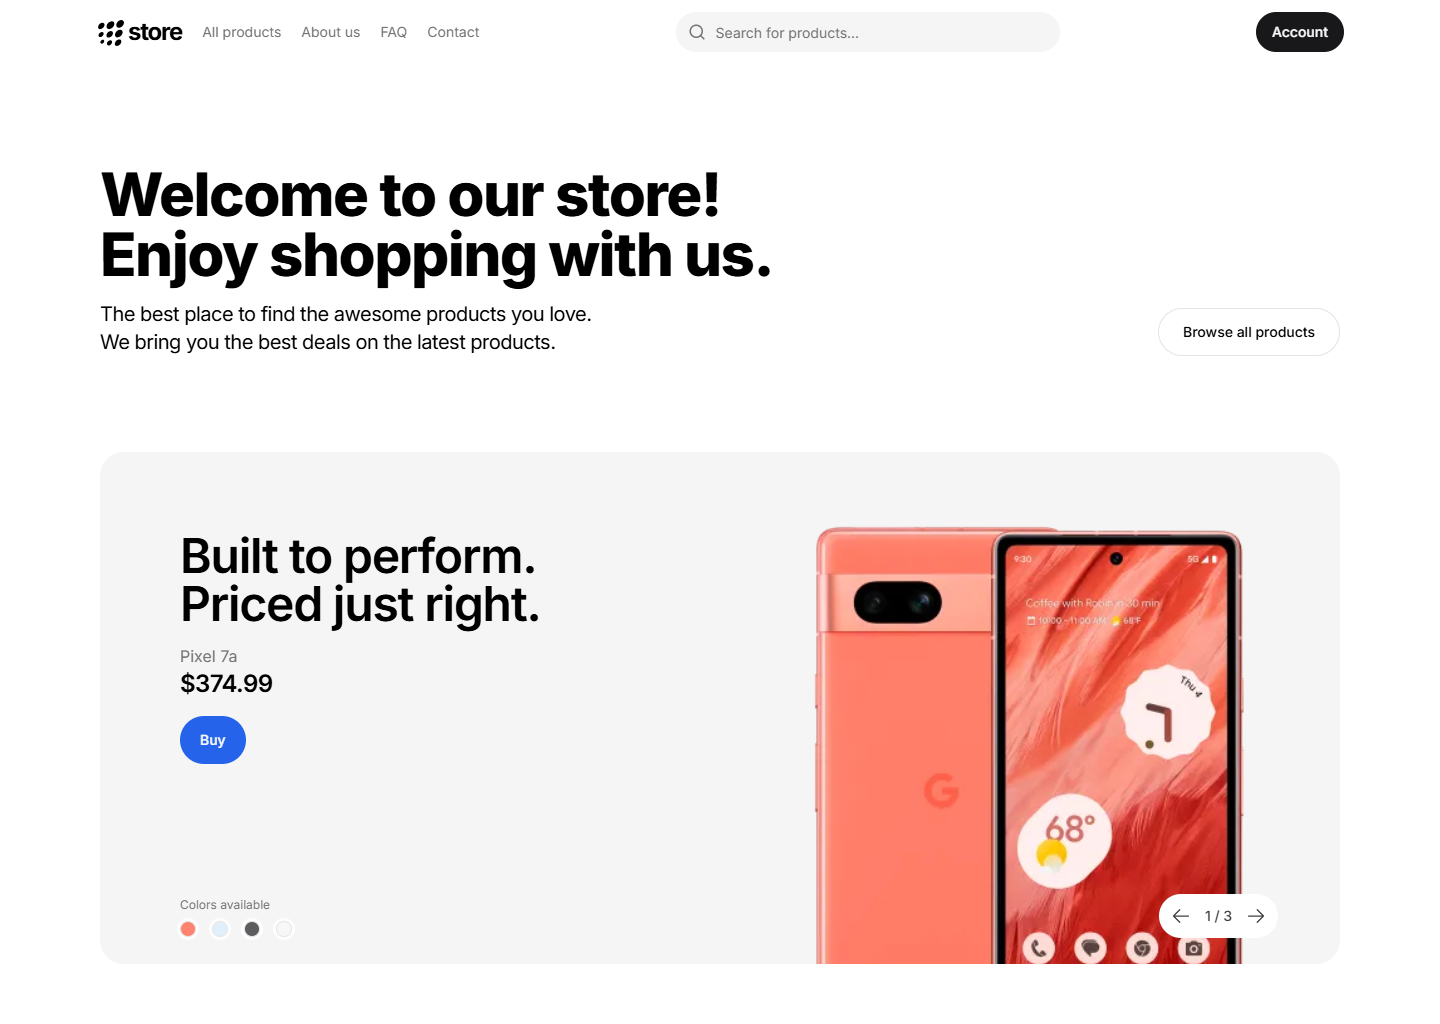
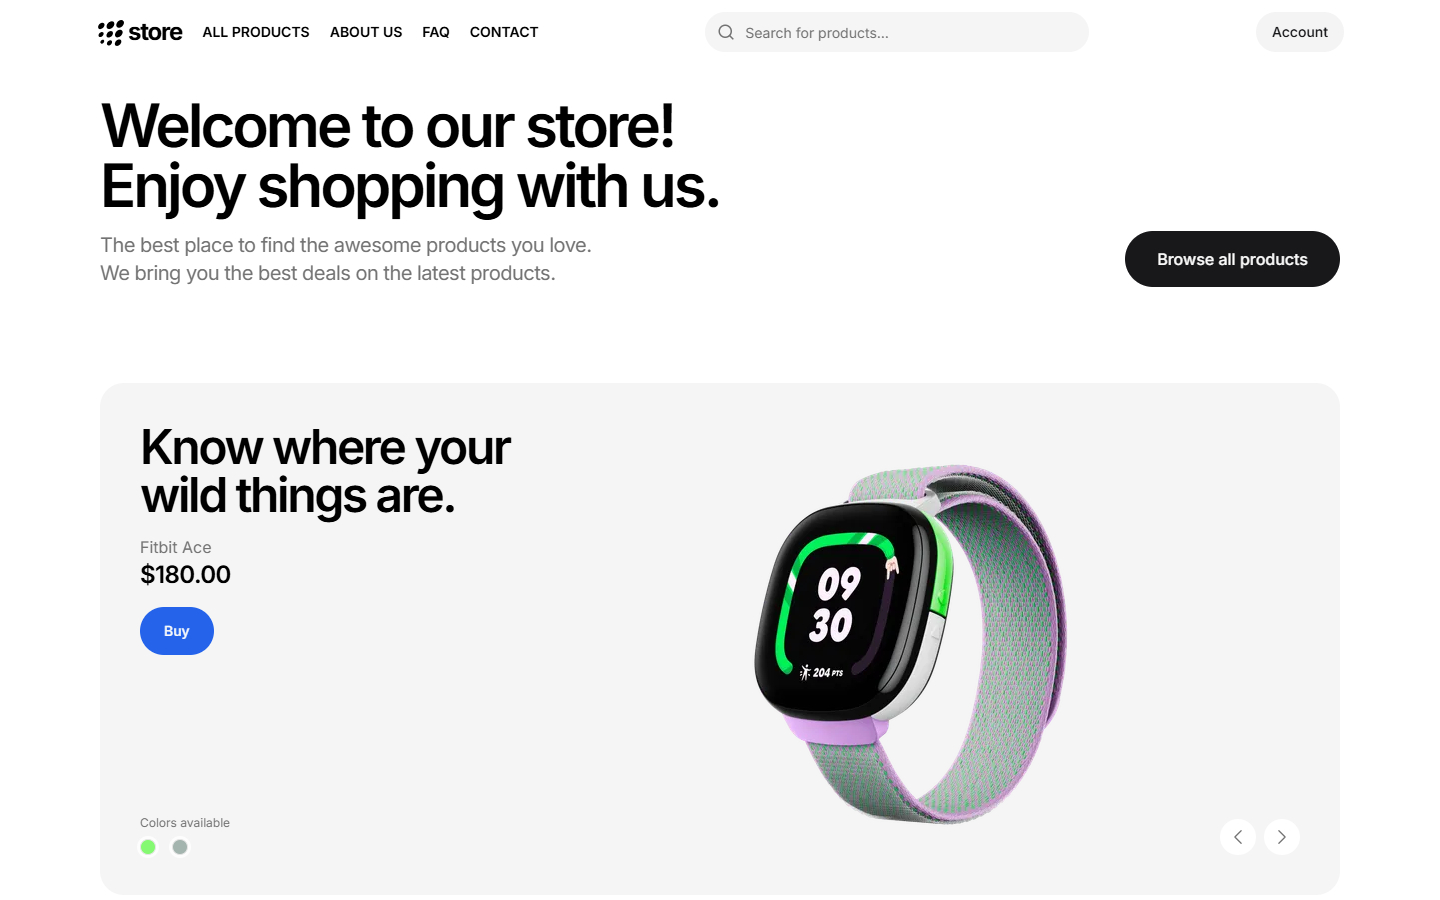
style: adds a few design changes

diff --git a/components/footer.tsx b/components/footer.tsx
@@ -1,6 +1,43 @@
-import StripeIcon from './icons/stripe';
 import LogoIcon from './icons/logo';
 import Link from 'next/link';
+
+const storeLinks = [
+  {
+    title: 'About',
+    href: '/about',
+  },
+  {
+    title: 'Contact',
+    href: '/contact',
+  },
+  {
+    title: 'FAQ',
+    href: '/faq',
+  },
+];
+
+const productLinks = [
+  {
+    title: 'Phones',
+    href: '/products/phones',
+  },
+  {
+    title: 'Watches',
+    href: '/products/watches',
+  },
+  {
+    title: 'T-shirts',
+    href: '/products/t-shirts',
+  },
+  {
+    title: 'Hats',
+    href: '/products/hats',
+  },
+  {
+    title: 'Hoodies',
+    href: '/products/hoodies',
+  },
+];
 
 export default function Footer() {
   return (
@@ -24,24 +61,15 @@ export default function Footer() {
           <div className="flex justify-center">
             <div className="flex flex-col items-start gap-2">
               <p className="font-medium">Store</p>
-              <Link
-                href="/about"
-                className="text-sm hover:text-black dark:hover:text-white text-neutral-500 dark:text-neutral-400 transition-all duration-200 ease-in"
-              >
-                About
-              </Link>
-              <Link
-                href="/contact"
-                className="text-sm hover:text-black dark:hover:text-white text-neutral-500 dark:text-neutral-400 transition-all duration-200 ease-in"
-              >
-                Contact
-              </Link>
-              <Link
-                href="/faq"
-                className="text-sm hover:text-black dark:hover:text-white text-neutral-500 dark:text-neutral-400 transition-all duration-200 ease-in"
-              >
-                FAQ
-              </Link>
+              {storeLinks.map((link) => (
+                <Link
+                  key={link.title}
+                  href={link.href}
+                  className="text-sm hover:text-black dark:hover:text-white text-neutral-500 dark:text-neutral-400 transition-all duration-200 ease-in"
+                >
+                  {link.title}
+                </Link>
+              ))}
             </div>
           </div>
         </div>
@@ -49,36 +77,15 @@ export default function Footer() {
           <div className="flex justify-center">
             <div className="flex flex-col items-start gap-2">
               <p className="font-medium">Products</p>
-              <Link
-                href="/products/phones"
-                className="text-sm hover:text-black dark:hover:text-white text-neutral-500 dark:text-neutral-400 transition-all duration-200 ease-in"
-              >
-                Phones
-              </Link>
-              <Link
-                href="/products/watches"
-                className="text-sm hover:text-black dark:hover:text-white text-neutral-500 dark:text-neutral-400 transition-all duration-200 ease-in"
-              >
-                Watches
-              </Link>
-              <Link
-                href="/products/t-shirts"
-                className="text-sm hover:text-black dark:hover:text-white text-neutral-500 dark:text-neutral-400 transition-all duration-200 ease-in"
-              >
-                T-shirts
-              </Link>
-              <Link
-                href="/products/hats"
-                className="text-sm hover:text-black dark:hover:text-white text-neutral-500 dark:text-neutral-400 transition-all duration-200 ease-in"
-              >
-                Hats
-              </Link>
-              <Link
-                href="/products/hoodies"
-                className="text-sm hover:text-black dark:hover:text-white text-neutral-500 dark:text-neutral-400 transition-all duration-200 ease-in"
-              >
-                Hoodies
-              </Link>
+              {productLinks.map((link) => (
+                <Link
+                  key={link.title}
+                  href={link.href}
+                  className="text-sm hover:text-black dark:hover:text-white text-neutral-500 dark:text-neutral-400 transition-all duration-200 ease-in"
+                >
+                  {link.title}
+                </Link>
+              ))}
             </div>
           </div>
         </div>

diff --git a/app/credits/page.tsx b/app/credits/page.tsx
@@ -1,0 +1,64 @@
+import BannerNewsletter from '@/components/banner-newsletter';
+import Footer from '@/components/footer';
+import { Metadata } from 'next';
+
+export const metadata: Metadata = {
+  title: 'Credits',
+  description: 'The people who made this possible.',
+};
+
+const creditsData = [
+  {
+    title: 'White shirt mockup',
+    href: 'https://www.freepik.com/free-psd/isolated-black-t-shirt-front_16188005.htm#query=t%20shirt%20mockup&position=3&from_view=keyword&track=ais',
+  },
+  {
+    title: 'Black shirt mockup',
+    href: 'https://www.freepik.com/free-psd/isolated-white-t-shirt-front-view_16188195.htm#query=t%20shirt%20mockup&position=7&from_view=keyword&track=ais',
+  },
+  {
+    title: 'White hoodie mockup',
+    href: 'https://www.freepik.com/free-psd/isolated-back-white-hoodie_18218933.htm#page=2&query=hoodie%20mockup&position=1&from_view=search&track=country_rows_v2',
+  },
+  {
+    title: 'Black hoodie mockup',
+    href: 'https://www.freepik.com/free-psd/isolated-back-black-hoodie_18218926.htm#query=hoodie%20mockup&position=30&from_view=search&track=country_rows_v2',
+  },
+  {
+    title: 'Green sweater mockup',
+    href: 'https://www.freepik.com/free-photo/green-front-sweater_13237319.htm#page=17&query=jacket%20mockup&position=29&from_view=search&track=ais',
+  },
+];
+
+export default function CreditsPage() {
+  return (
+    <div className="flex flex-col gap-12 p-5 pt-12">
+      <div className="flex flex-col gap-4">
+        <h1 className="text-4xl font-semibold tracking-tighter lg:text-5xl">
+          Credits
+        </h1>
+        <div className="flex flex-col gap-2">
+          <p className="text-lg">
+            The following resources were used in the creation of this project:
+          </p>
+          <ul className="list-disc pl-5">
+            {creditsData.map((credit) => (
+              <li key={credit.title}>
+                <a
+                  href={credit.href}
+                  className="text-blue-600 hover:underline"
+                  target="_blank"
+                  rel="noopener noreferrer"
+                >
+                  {credit.title}
+                </a>
+              </li>
+            ))}
+          </ul>
+        </div>
+      </div>
+      <BannerNewsletter />
+      <Footer />
+    </div>
+  );
+}

diff --git a/app/product/[handle]/page.tsx b/app/product/[handle]/page.tsx
@@ -86,15 +86,19 @@ export default async function ProductPage({
 async function RelatedProducts({ category }: { category: string }) {
   const products = (await getProducts()) as Products[];
 
-  const filteredProducts = products.filter(
-    (product) => product?.category === category
-  );
+  // Show only 3 random products, excluding the current item
+  // The sort approach is not the best, but it's good enough for this example
+  // Is a common trick to shuffle an array randomly
+  const filteredProducts = products
+    .filter((product) => product.category !== category)
+    .sort(() => 0.5 - Math.random())
+    .slice(0, 3);
 
   return (
     <>
       {filteredProducts.length > 0 && (
         <div className="flex flex-col gap-8">
-          <h2 className="text-3xl font-semibold tracking-tight">
+          <h2 className="text-3xl font-semibold tracking-tighter">
             You might also like
           </h2>
           <ul className="grid grid-cols-1 md:grid-cols-2 lg:grid-cols-3 gap-5">

diff --git a/components/banner.tsx b/components/banner.tsx
@@ -108,12 +108,12 @@ export default function BannerItem({ item }: { item: Banner[] }) {
                 </div>
               </div>
             </div>
-            <div className="sm:w-2/3 h-full flex items-center scale-125 translate-y-20">
+            <div className="sm:w-2/3 h-full flex items-center justify-center">
               <Image
                 src={image}
                 alt={name}
-                width={800}
-                height={800}
+                width={640}
+                height={640}
                 quality={80}
                 priority={true}
                 className={animate ? 'animate-slide-in-image' : ''}

diff --git a/components/product-info.tsx b/components/product-info.tsx
@@ -53,7 +53,7 @@ export default function ProductInfo({ product }: { product: ProductInfoType }) {
     <div className="flex flex-col gap-4">
       <div className="flex flex-col gap-1">
         <div className="flex items-center gap-4">
-          <h2 className="text-3xl font-semibold tracking-tight">
+          <h2 className="text-3xl font-semibold tracking-tighter">
             {product?.name}
           </h2>
           {user && (

diff --git a/components/orders.tsx b/components/orders.tsx
@@ -72,7 +72,7 @@ export default function Orders() {
                         {FormattedDate(order.created_at)}
                       </p>
                     </div>
-                    <div className="flex gap-2">
+                    <div className="flex flex-wrap gap-2">
                       {order.items.map((item: CartItem, index: number) => {
                         return (
                           <div

diff --git a/components/three-items.tsx b/components/three-items.tsx
@@ -8,8 +8,8 @@ import { FormattedPrice } from '@/lib/utils';
 
 export default async function ThreeItems() {
   const products = (await getProducts()) as Products[];
-  const mainElement = products[6];
-  const firstTwoElements = products.slice(1, 3);
+  const mainElement = products[3];
+  const firstTwoElements = products.slice(5, 7);
 
   return (
     <div className="flex flex-col xl:flex-row gap-6 w-full">

diff --git a/components/gallery.tsx b/components/gallery.tsx
@@ -25,7 +25,7 @@ export default function Gallery({
             key={index}
             className="p-0 flex items-center justify-center"
           >
-            <Image src={image.url} alt={name} width={800} height={800} />
+            <Image src={image.url} alt={name} width={640} height={640} />
           </CarouselItem>
         ))}
       </CarouselContent>

diff --git a/README.md b/README.md
@@ -24,3 +24,6 @@ For test demo, you can use the following credit card details:
 - Month: Any valid month
 - Year: Current year or above
 - CVC: Any 3 digits
+
+> [!NOTE]
+> All the tech images (phones, watches, etc.) are downloaded from [store.google.com](https://store.google.com), is just for **demo purpose**.
